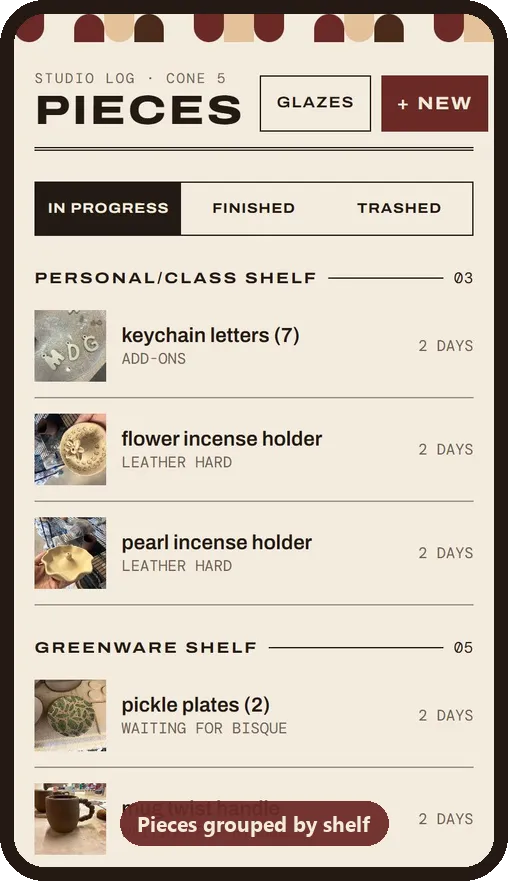
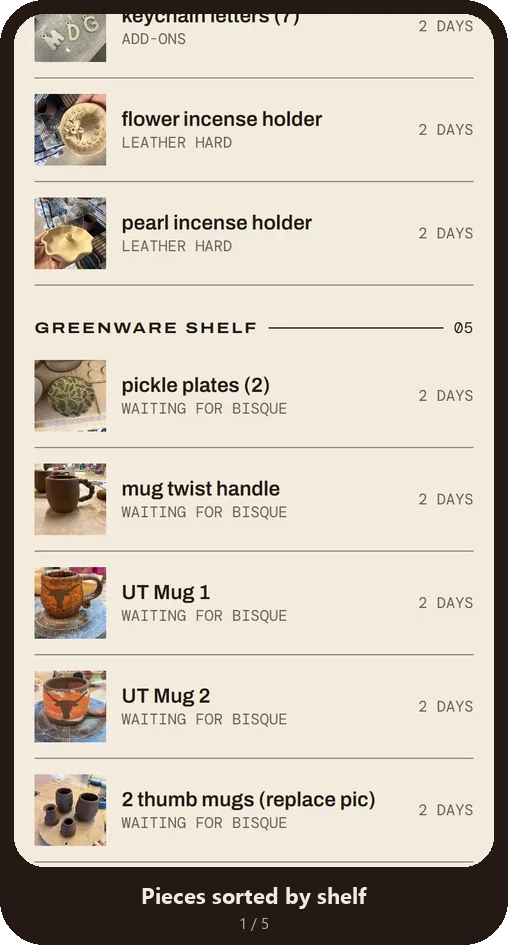
Pottery: mug demo, feature screenshots, shorter cards, no intro blurb; consistent Back to projects link

diff --git a/Pottery tracker.html b/Pottery tracker.html
@@ -43,18 +43,13 @@
 
   <main id="main">
     <article class="case-study section narrow">
+      <a class="text-link back-link" href="Current%20Projects.html">&larr; Back to projects</a>
       <p class="eyebrow">Case study</p>
       <h1>Pottery tracker</h1>
       <p class="lede">
         I made a phone app for my pottery practice, and I use it every time I'm at the studio. It follows each piece
         from wet clay to the final firing: what stage it's in, which shelf it's on, what glazes went on, and how they
         came out.
-      </p>
-      <p>
-        You'd think you'd remember every piece you make, but the truth is a piece takes weeks to finish and it's easy
-        to lose track of things on the shelves. I had been using the Notes app on my iPhone to keep track, but I was
-        losing a lot of detail. I wanted one place that held a photo at every stage, the shelf, and the glaze recipe
-        together, on my phone, while I'm at the studio.
       </p>
 
       <details class="case-disclosure">
@@ -70,45 +65,45 @@
         </div>
         <div class="card-grid two-column compact-grid">
           <article class="simple-card">
+            <img class="feature-shot" src="images/pottery/feature-timeline.webp" width="540" height="361" loading="lazy" alt="A piece's timeline with a photo, date, and shelf for each stage">
             <h3><span class="card-icon" aria-hidden="true">✦</span> Stage timeline</h3>
             <p>
-              Every piece keeps a dated history with a photo, shelf, and note at each stage. I can always see how long
-              it's been sitting. A leather hard piece can't wait long to be trimmed.
+              Tracks when a piece was made, with a photo, shelf, and note at each stage.
             </p>
           </article>
           <article class="simple-card">
+            <img class="feature-shot" src="images/pottery/feature-shelves.webp" width="540" height="361" loading="lazy" alt="Home screen list of pieces under the Greenware shelf heading">
             <h3><span class="card-icon" aria-hidden="true">✦</span> Shelves</h3>
             <p>
-              Picking a stage suggests the usual shelf. The home screen groups pieces by shelf, with the ones that have
-              waited longest at the top.
+              Home groups pieces by shelf, longest-waiting first.
             </p>
           </article>
           <article class="simple-card">
+            <img class="feature-shot" src="images/pottery/feature-goal.webp" width="540" height="361" loading="lazy" alt="Goal form with a target stage and date">
             <h3><span class="card-icon" aria-hidden="true">✦</span> Goals and Due soon</h3>
             <p>
-              I can set a goal like "glaze fired by Nov 20." Anything due within a week moves to the top of the home
-              screen.
+              Set a target date. Anything due within a week rises to the top.
             </p>
           </article>
           <article class="simple-card">
+            <img class="feature-shot" src="images/pottery/feature-layers.webp" width="540" height="361" loading="lazy" alt="Two numbered glaze layers, each brushed with three coats">
             <h3><span class="card-icon" aria-hidden="true">✦</span> Glaze layers</h3>
             <p>
-              Each layer in order: dipped or brushed, how many coats, and where it went (whole piece, inside, outside,
-              or rim).
+              Each layer in order: dipped or brushed, coats, and where it went.
             </p>
           </article>
           <article class="simple-card">
+            <img class="feature-shot" src="images/pottery/feature-search.webp" width="540" height="361" loading="lazy" alt="Glaze search for Smoke showing a finished mini vase">
             <h3><span class="card-icon" aria-hidden="true">✦</span> Search by glaze</h3>
             <p>
-              I can type a glaze, filter by white or red clay, and see every finished piece that used it and what it
-              was paired with. Now "what did Smoke look like on white clay?" takes seconds instead of a camera roll
-              scroll.
+              Find every finished piece with a glaze, filtered by white or red clay.
             </p>
           </article>
           <article class="simple-card">
+            <img class="feature-shot" src="images/pottery/feature-trash.webp" width="540" height="361" loading="lazy" alt="Home tabs for In progress, Finished, and Trashed">
             <h3><span class="card-icon" aria-hidden="true">✦</span> Trash with a reason</h3>
             <p>
-              Pieces that crack or fail go to a trashed list with what went wrong, so I can learn from them later.
+              Failed pieces go to a trash list with what went wrong.
             </p>
           </article>
         </div>

diff --git a/Website project.html b/Website project.html
@@ -43,15 +43,13 @@
 
   <main id="main">
     <article class="case-study section narrow">
+      <a class="text-link back-link" href="Current%20Projects.html">&larr; Back to projects</a>
       <p class="eyebrow">Case study</p>
       <h1>Making this website</h1>
       <p class="lede">
         I learn by doing. This site started as a blank file and became a practical way to understand front-end structure,
         responsive design, personal expression, and how quickly AI tools are changing the building process.
       </p>
-      <div class="actions">
-        <a class="button secondary" href="Current%20Projects.html">Back to projects</a>
-      </div>
 
       <section>
         <details class="story-disclosure">

diff --git a/Report agent.html b/Report agent.html
@@ -43,15 +43,13 @@
 
   <main id="main">
     <article class="case-study section narrow">
+      <a class="text-link back-link" href="Current%20Projects.html">&larr; Back to projects</a>
       <p class="eyebrow">Case study</p>
       <h1>Reporting agent</h1>
       <p class="lede">
         Microsoft internship project where I built an agent that analyzed product metrics, produced a weekly report, and
         notified team members of significant metric changes. Cleansed for portfolio use.
       </p>
-      <div class="actions">
-        <a class="button secondary" href="Current%20Projects.html">Back to projects</a>
-      </div>
 
       <details class="case-disclosure">
         <summary>The problem</summary>

diff --git a/Project 2.html b/Project 2.html
@@ -43,6 +43,7 @@
 
   <main id="main">
     <article class="case-study section narrow">
+      <a class="text-link back-link" href="Current%20Projects.html">&larr; Back to projects</a>
       <p class="eyebrow">Case study</p>
       <h1>Creating a crochet tracker</h1>
       <p class="lede">
@@ -51,7 +52,6 @@
       </p>
       <div class="actions">
         <a class="button" href="crochet.html">Open the tracker</a>
-        <a class="button secondary" href="Current%20Projects.html">Back to projects</a>
       </div>
 
       <section>

diff --git a/site.css b/site.css
@@ -1551,3 +1551,24 @@ button.scroll-hint {
 .case-disclosure .clean-list {
   margin-bottom: 0.5rem;
 }
+
+/* Small "Back to projects" link at the top of each case study */
+.back-link {
+  font-size: 0.9rem;
+  justify-self: start;
+  margin-bottom: 0.5rem;
+}
+
+/* Small app screenshot at the top of each pottery feature card */
+.feature-shot {
+  border: 1px solid var(--cp-border);
+  filter: none;
+  height: auto;
+  margin-bottom: 0.75rem;
+  max-width: 320px;
+  width: 100%;
+}
+
+.feature-shot:hover {
+  filter: none;
+}

diff --git a/Evaluating agents.html b/Evaluating agents.html
@@ -43,6 +43,7 @@
 
   <main id="main">
     <article class="case-study section narrow">
+      <a class="text-link back-link" href="Current%20Projects.html">&larr; Back to projects</a>
       <p class="eyebrow">Case study</p>
       <h1>Evaluating agents</h1>
       <p class="lede">
